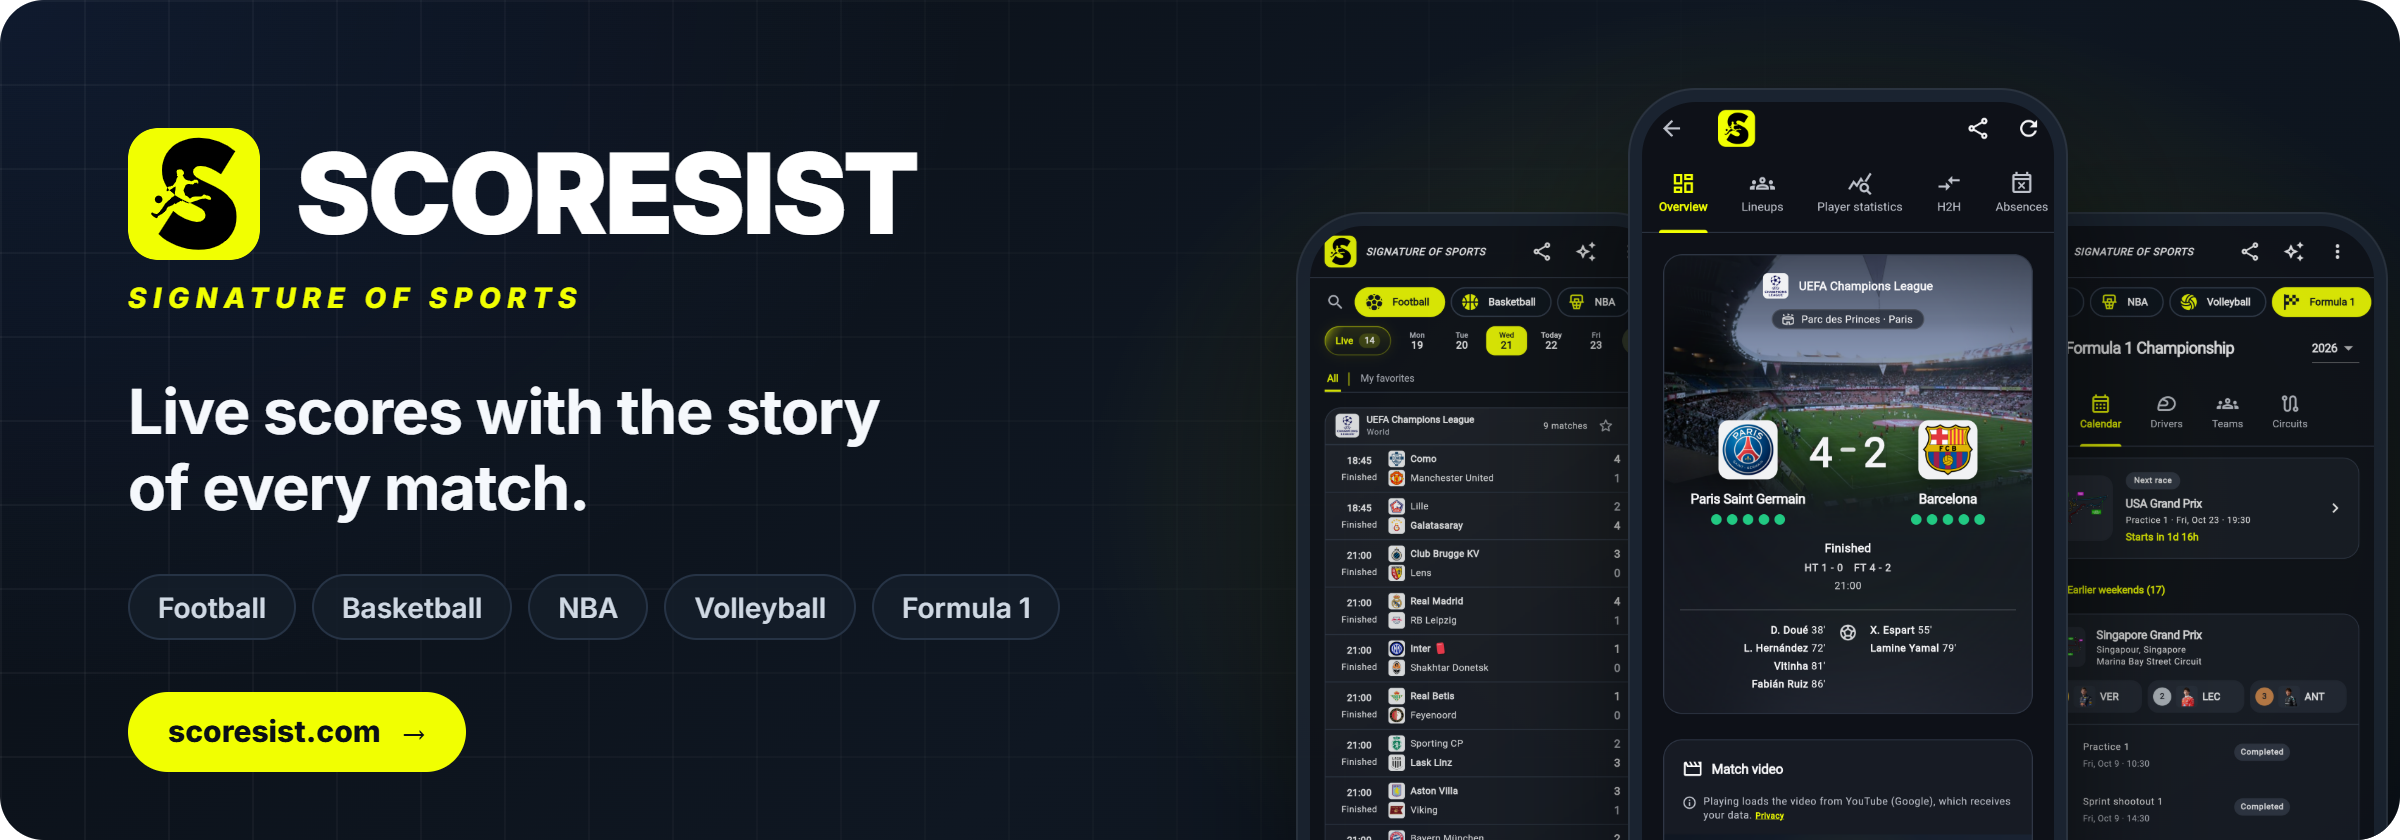
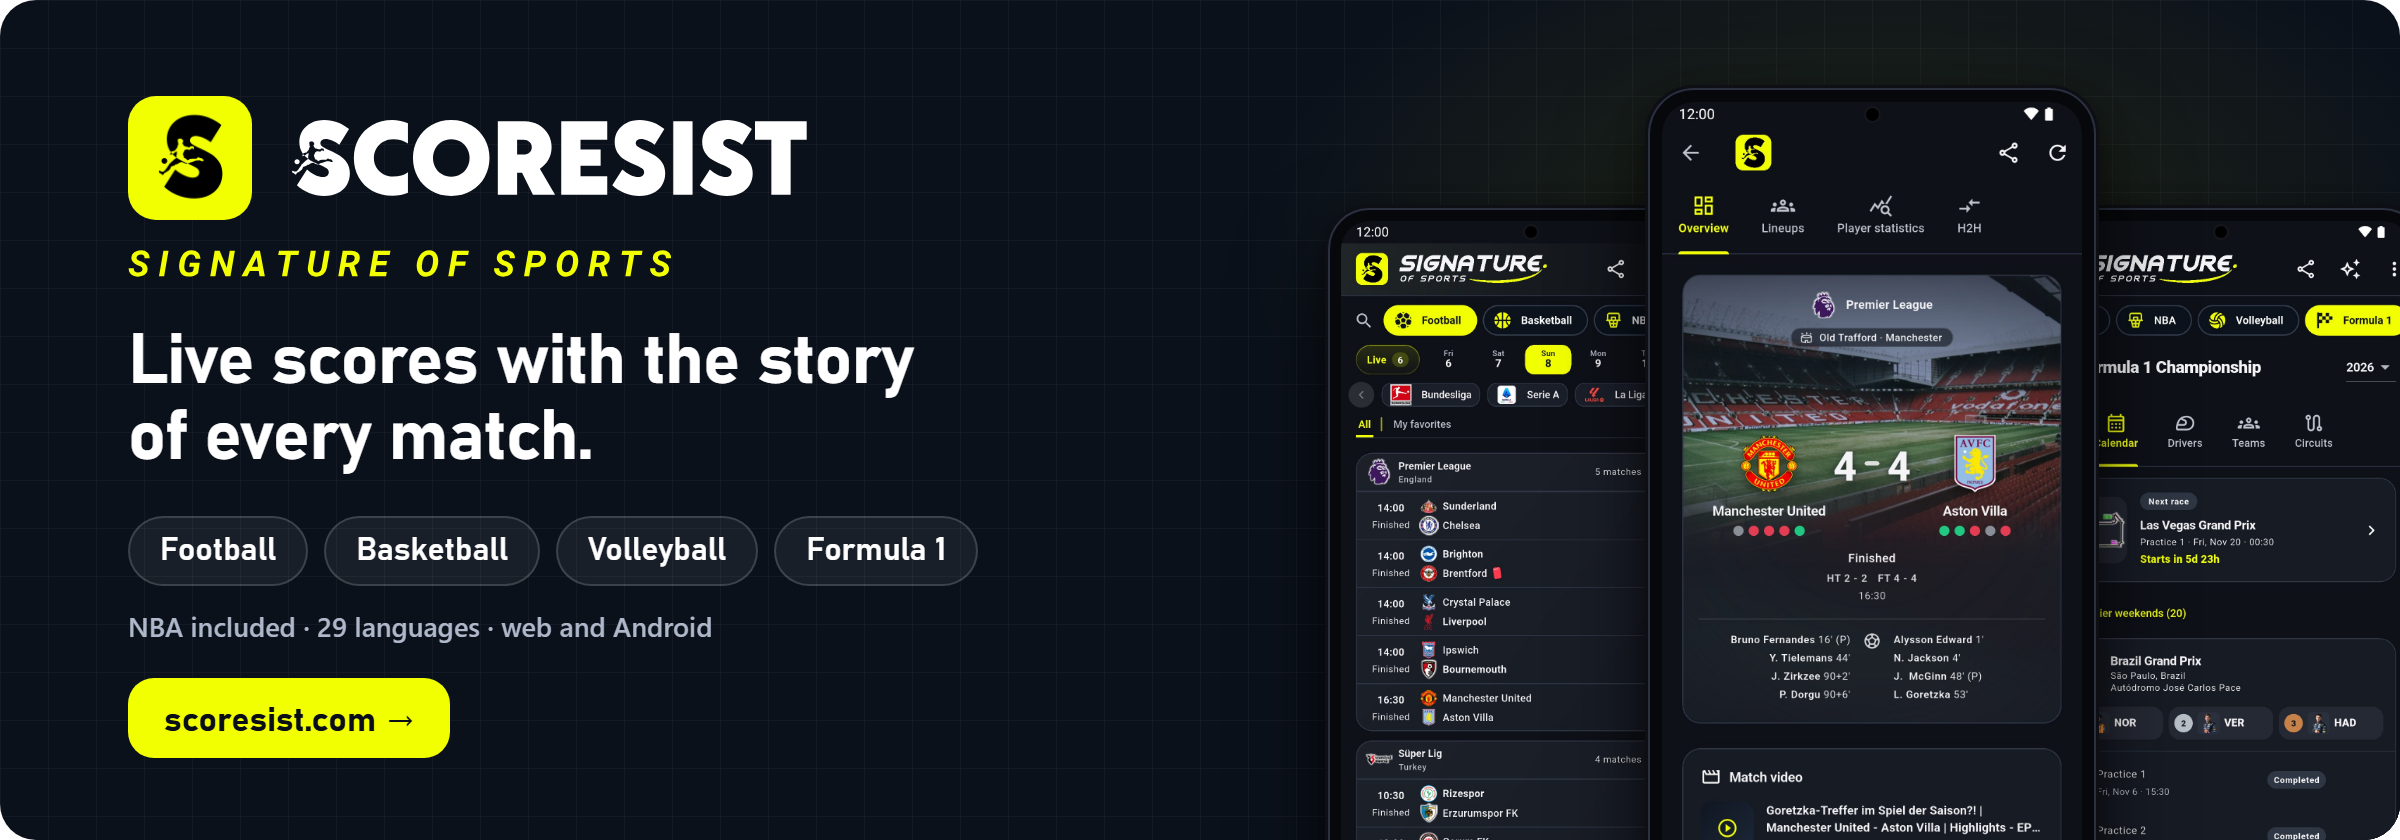
Refresh the SCORESIST profile: current screens, Google Play status, 29 languages

diff --git a/README.md b/README.md
@@ -1,6 +1,13 @@
-<a href="https://scoresist.com"><img src="https://raw.githubusercontent.com/OUTATlME/OUTATlME/main/assets/banner.png" alt="SCORESIST — live scores with the story of every match" width="100%"></a>
+<a href="https://www.scoresist.com"><img src="https://raw.githubusercontent.com/OUTATlME/OUTATlME/main/assets/banner.png" alt="SCORESIST — live scores with the story of every match" width="100%"></a>
 
-I build **[SCORESIST](https://scoresist.com)**, a live sports app for football, basketball, the NBA, volleyball and Formula 1. I run the product end to end: what we build, how it looks and how it holds up on match day.
+I build **[SCORESIST](https://www.scoresist.com)**, a live sports app for football, basketball (NBA included), volleyball and Formula 1. I run the product end to end: what we build, how it looks and how it holds up on match day.
+
+## Where to find it
+
+- **Web:** live at [www.scoresist.com](https://www.scoresist.com).
+- **Android:** in testing on Google Play; public release coming soon.
+- **iOS:** planned after Android.
+- **Languages:** 29, including right-to-left Arabic and Hebrew.
 
 ## What it does
 
@@ -8,21 +15,23 @@ I build **[SCORESIST](https://scoresist.com)**, a live sports app for football, 
 - **A full match centre.** Stadium photo, scorers, statistics, player ratings, head-to-head, absences and official highlight videos where available.
 - **Lineups on the pitch.** Formations, player photos, ratings and match events in one view.
 - **Standings with context.** Qualification zones, recent form, home and away tables, and live league positions next to each score.
-- **Built for fans.** Google sign-in, favourites synced across devices, live match chat, fan ratings and themes in your club's colours.
+- **Built for fans.** Google sign-in, favourites synced across devices, goal and lineup alerts on your phone, live match chat, fan ratings, share cards and themes in your club's colours.
 
-<img src="https://raw.githubusercontent.com/OUTATlME/OUTATlME/main/assets/screens.png" alt="SCORESIST on a phone: live matches, a match centre, a lineup and a league table" width="100%">
+<img src="https://raw.githubusercontent.com/OUTATlME/OUTATlME/main/assets/screens.png" alt="SCORESIST on Android: match day, a match centre, a lineup and fan mode in club colours" width="100%">
 
-<img src="https://raw.githubusercontent.com/OUTATlME/OUTATlME/main/assets/desktop.png" alt="SCORESIST on desktop: sport tabs, a date strip and league-grouped results" width="100%">
+<img src="https://raw.githubusercontent.com/OUTATlME/OUTATlME/main/assets/desktop.png" alt="SCORESIST on the web: sport tabs, a date strip and league-grouped results" width="100%">
 
 ## Under the hood
 
-- **App:** Flutter, Riverpod and GoRouter. Live on the web; Android build in testing.
+- **App:** Flutter, Riverpod and GoRouter for Android (iOS later).
+- **Website:** SvelteKit on Cloudflare Workers, with pages search engines can read.
 - **API:** NestJS and TypeScript on PostgreSQL with Prisma.
 - **Data:** commercial sports data feeds, synced by background jobs that share a fixed request budget.
 - **Accounts:** Supabase Auth with Google sign-in, and row-level security on every table.
-- **Delivery:** GitHub Actions checks every change; the web app ships to Firebase Hosting and the API to Railway.
+- **Alerts:** Firebase Cloud Messaging for phone notifications.
+- **Delivery:** GitHub Actions checks every change; the website ships to Cloudflare and the API to Railway.
 
-Since August 2026: **375 merged pull requests** and **5,000+ automated tests** running on every change.
+Since August 2026: **700+ merged pull requests** and **4,000+ automated tests** running on every change.
 
 ## How I work
 
